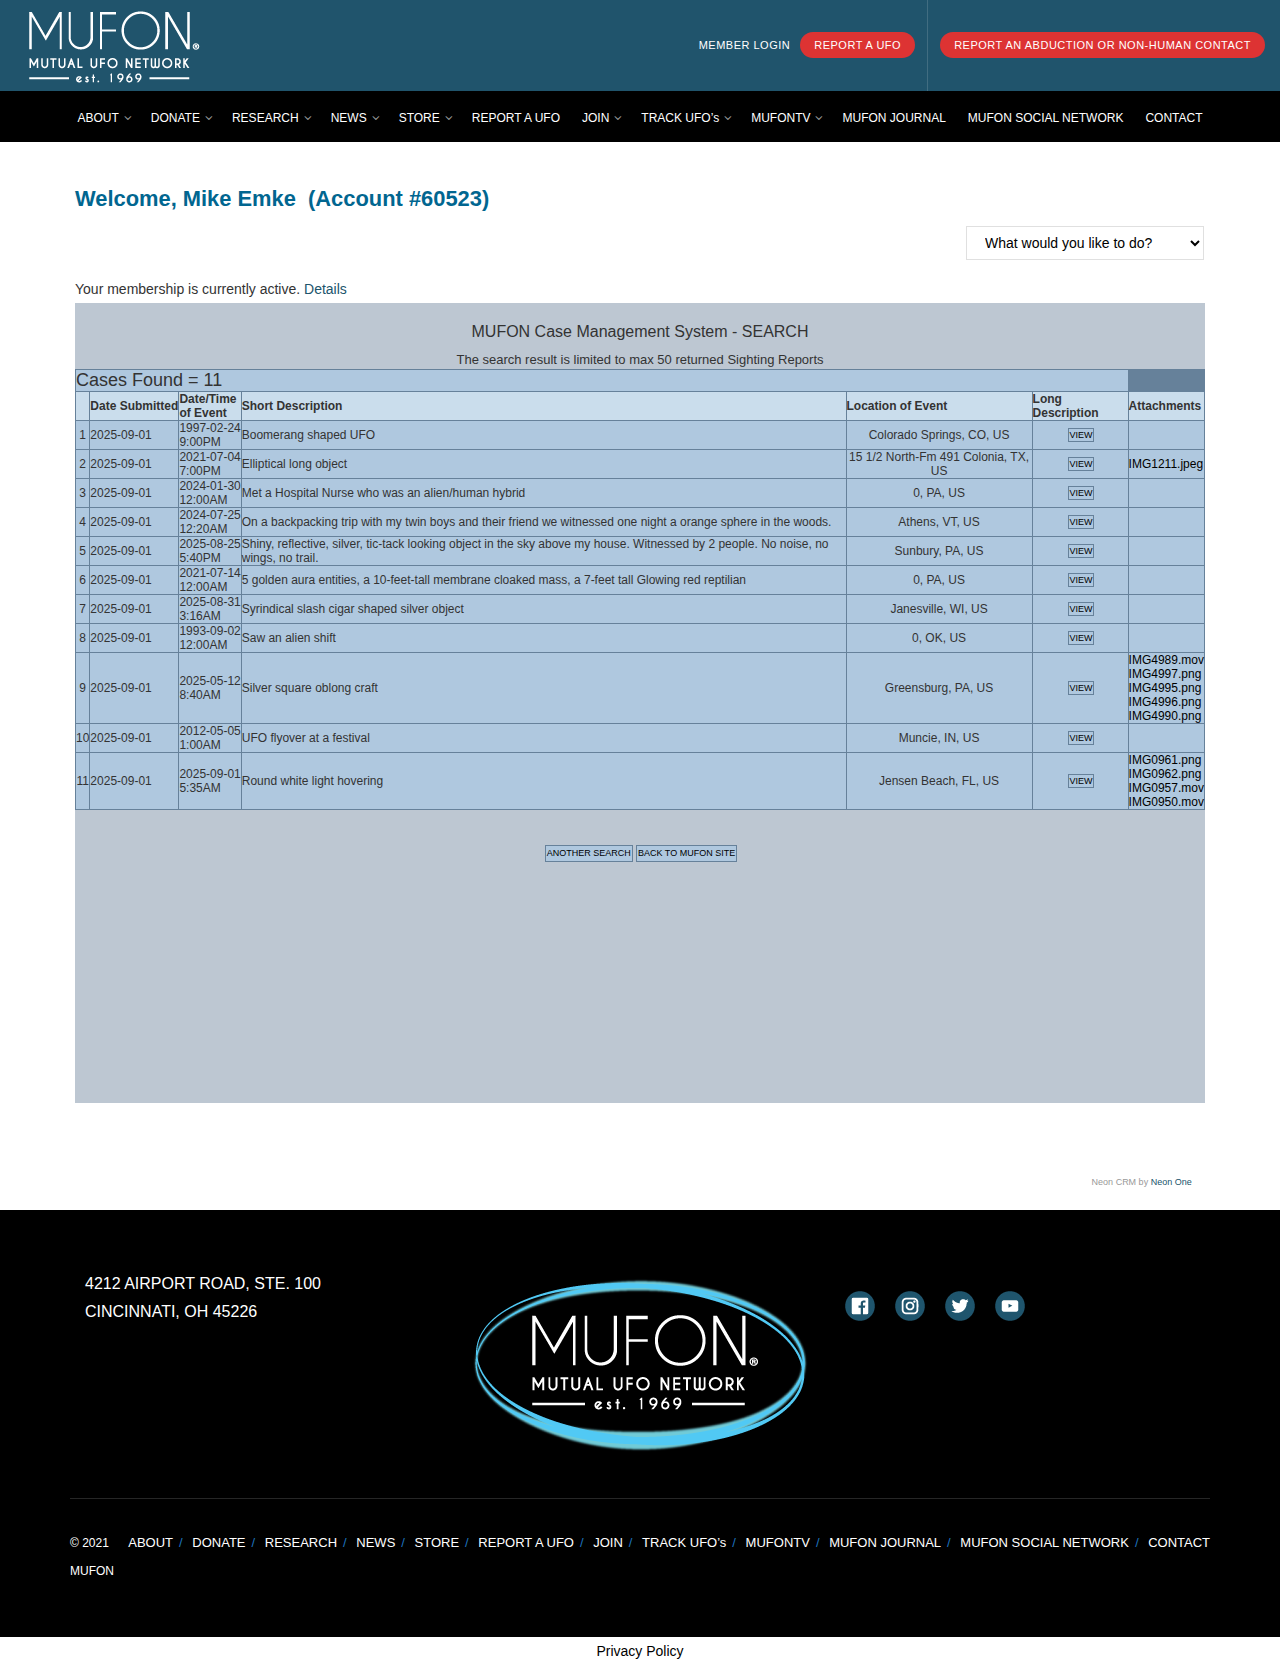
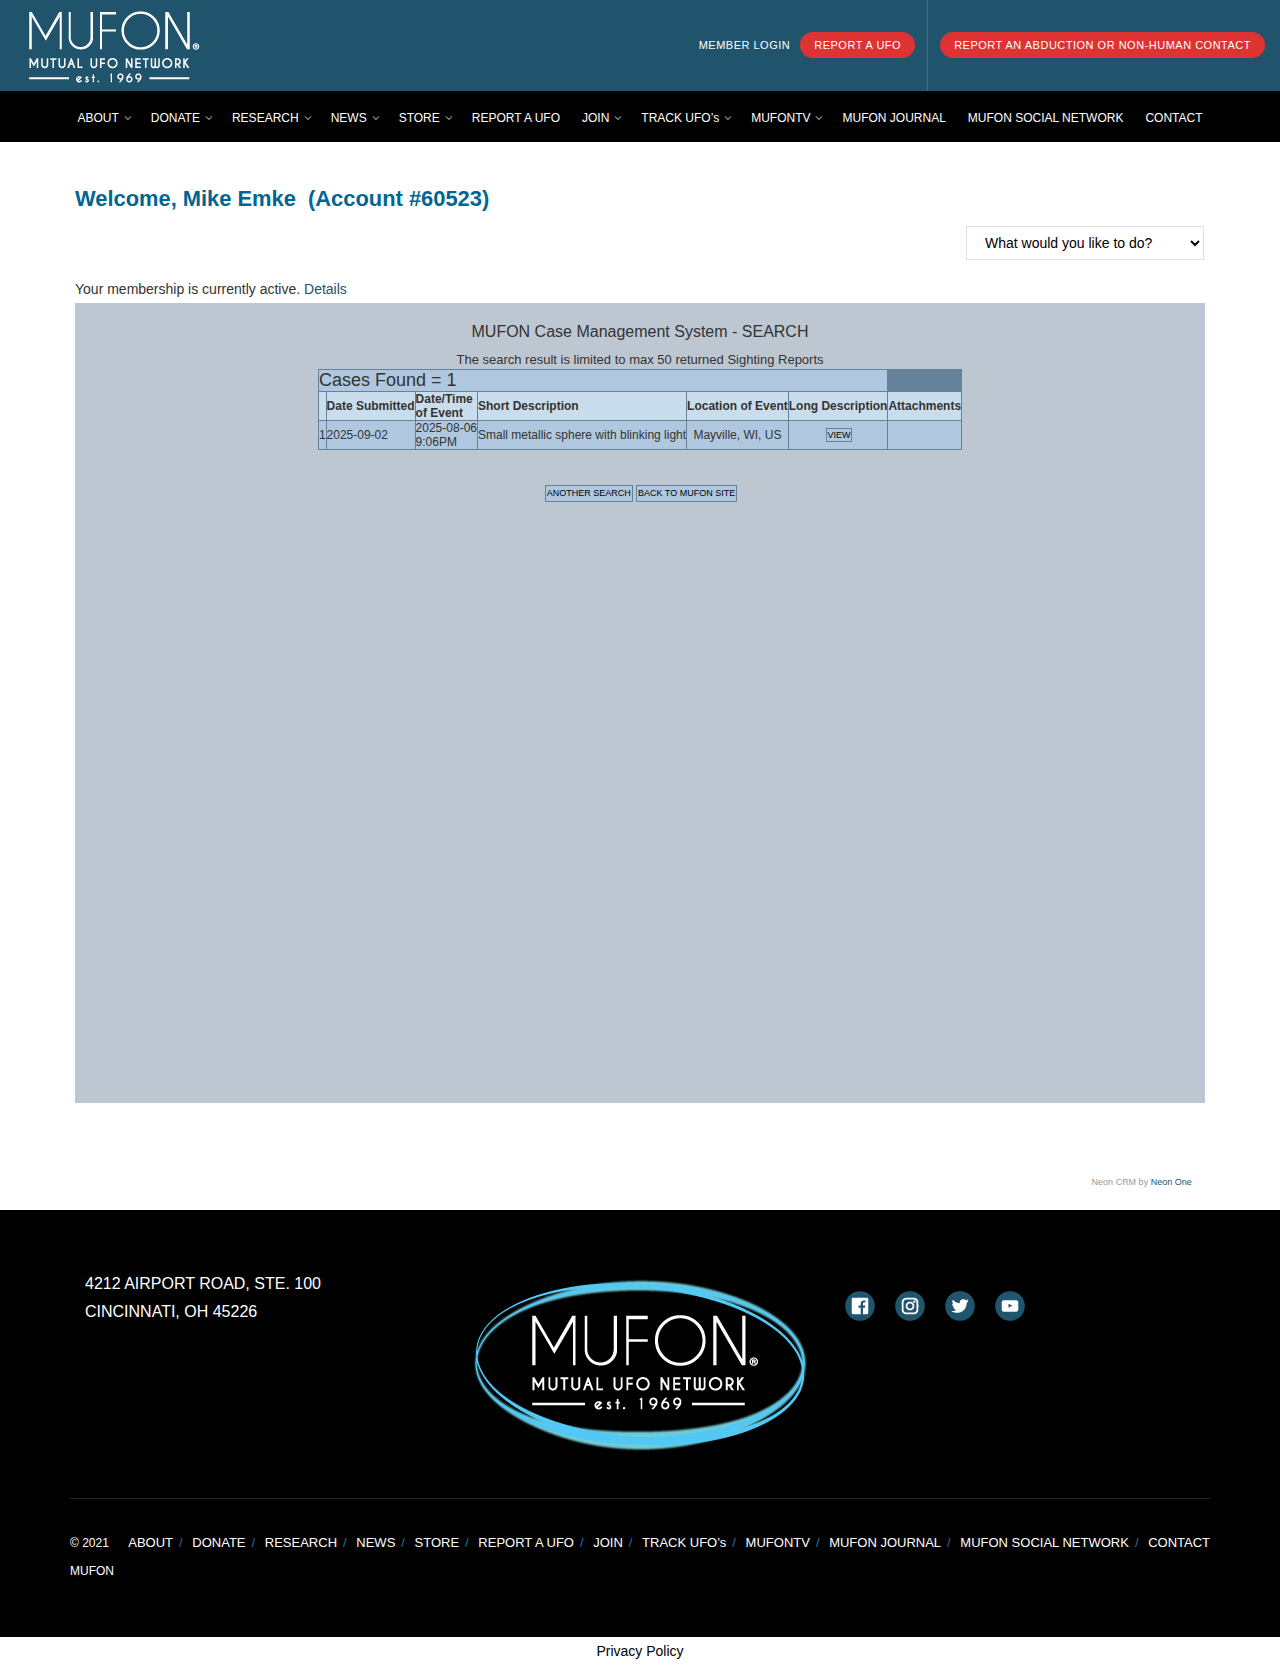
Add reverse geocoding to MUFON import for proper location enrichment

Changed region(s): [[0.0625, 0.2186, 0.9688, 0.4997], [0.875, 0.3748, 0.9375, 0.4997], [0.4375, 0.4997, 0.5625, 0.5309]]

diff --git a/api/feeds/import_via_alerts.py b/api/feeds/import_via_alerts.py
@@ -113,12 +113,14 @@ def import_mufon_cases():
             long_desc = case.get('Long_Description', '')
             
             # Build full description for detail page with HTML formatting
-            if long_desc and len(long_desc.strip()) > 50:
+            if long_desc and len(long_desc.strip()) > 10:
                 # Use long description if available, convert newlines to paragraphs
                 full_description = f"<p>{long_desc.replace(chr(10), '</p><p>')}</p>"
             else:
-                # Expand short description with HTML
-                full_description = f"<p>{short_desc}</p><p><em>Detailed witness account and analysis.</em></p>"
+                # Use short description as the main content since long descriptions aren't available
+                full_description = f"<p>{short_desc}</p>"
+                if len(short_desc) < 100:
+                    full_description += f"<p><em>This is a MUFON case report. Additional witness details may be available in the original MUFON database.</em></p>"
             
             # Classify UFO type for MUFON enrichment data
             classification = classifier.classify(
@@ -126,6 +128,44 @@ def import_mufon_cases():
                 case.get('Short_Description', '')
             )
             
+            # Do reverse geocoding to get proper location name
+            geocoding_data = {}
+            try:
+                import requests
+                geocode_url = f"https://nominatim.openstreetmap.org/reverse"
+                params = {
+                    'lat': lat,
+                    'lon': lon,
+                    'format': 'json',
+                    'addressdetails': 1
+                }
+                headers = {'User-Agent': 'UFOBeep MUFON Import Script'}
+                
+                response = requests.get(geocode_url, params=params, headers=headers, timeout=5)
+                if response.status_code == 200:
+                    data = response.json()
+                    if data:
+                        formatted_address = data.get('display_name', location)
+                        geocoding_data = {
+                            "latitude": lat,
+                            "longitude": lon,
+                            "location_name": formatted_address,
+                            "formatted_address": formatted_address,
+                            "provider": "OpenStreetMap/Nominatim",
+                            "raw_data": data
+                        }
+                        print(f"   Reverse geocoded: {formatted_address}")
+                    
+                time.sleep(1)  # Be respectful to geocoding API
+            except Exception as e:
+                print(f"   Reverse geocoding failed: {e}")
+                geocoding_data = {
+                    "latitude": lat,
+                    "longitude": lon,
+                    "location_name": location,
+                    "formatted_address": location
+                }
+
             # Add MUFON metadata section with proper HTML formatting
             full_description += f"""
 
@@ -179,7 +219,8 @@ def import_mufon_cases():
                     "data_source": "MUFON CMS",
                     "historical_case": True,
                     "event_date": datetime_event,
-                    "submission_date": case.get('Date_Submitted', '')
+                    "submission_date": case.get('Date_Submitted', ''),
+                    "geocoding": geocoding_data
                 }
             }
             

diff --git a/api/feeds/working_mufon_search.py b/api/feeds/working_mufon_search.py
@@ -322,6 +322,60 @@ def main():
                         if any(v for v in row_data.values() if v):  # Non-empty row
                             results.append(row_data)
                             print(f"Raw case data: {row_data}")
+                
+                # Now click into each case to get long description and real case number
+                print(f"\n=== ENHANCING {len(results)} CASES WITH DETAILED DATA ===")
+                for i, case in enumerate(results):
+                    try:
+                        print(f"\nProcessing case {i+1}/{len(results)}...")
+                        
+                        # Look for clickable link in the row
+                        row_selector = f"table:nth-of-type({table_index+1}) tr:nth-of-type({results.index(case)+2})"
+                        case_link = iframe.locator(f"{row_selector} a").first
+                        
+                        if case_link.count() > 0:
+                            print(f"  Found clickable case link")
+                            case_link.click()
+                            time.sleep(2)  # Wait for case detail page
+                            
+                            # Extract real case number from URL
+                            detail_url = iframe.url if hasattr(iframe, 'url') else page.url
+                            print(f"  Detail URL: {detail_url}")
+                            
+                            # Look for actual case number in URL (e.g., /case/123456)
+                            import re
+                            case_num_match = re.search(r'case[=/](\d+)', detail_url)
+                            if case_num_match:
+                                real_case_number = case_num_match.group(1)
+                                case['Real_Case_Number'] = real_case_number
+                                print(f"  Real case number: {real_case_number}")
+                            
+                            # Extract long description from detail page
+                            long_desc_text = ""
+                            for desc_selector in ["div.description", "div.long-description", "div.details", "td:contains('Description')", "p"]:
+                                try:
+                                    desc_elem = iframe.locator(desc_selector).first
+                                    if desc_elem.count() > 0:
+                                        text = desc_elem.inner_text()
+                                        if text and len(text) > 50:
+                                            long_desc_text = text
+                                            print(f"  Found long description: {len(text)} chars")
+                                            break
+                                except:
+                                    continue
+                            
+                            if long_desc_text:
+                                case['Long_Description'] = long_desc_text
+                            
+                            # Go back to results
+                            iframe.go_back() if hasattr(iframe, 'go_back') else page.go_back()
+                            time.sleep(1)
+                        else:
+                            print(f"  No clickable link found for case")
+                    
+                    except Exception as e:
+                        print(f"  Error enhancing case {i+1}: {e}")
+                        continue
         
         # Save results
         output = {
